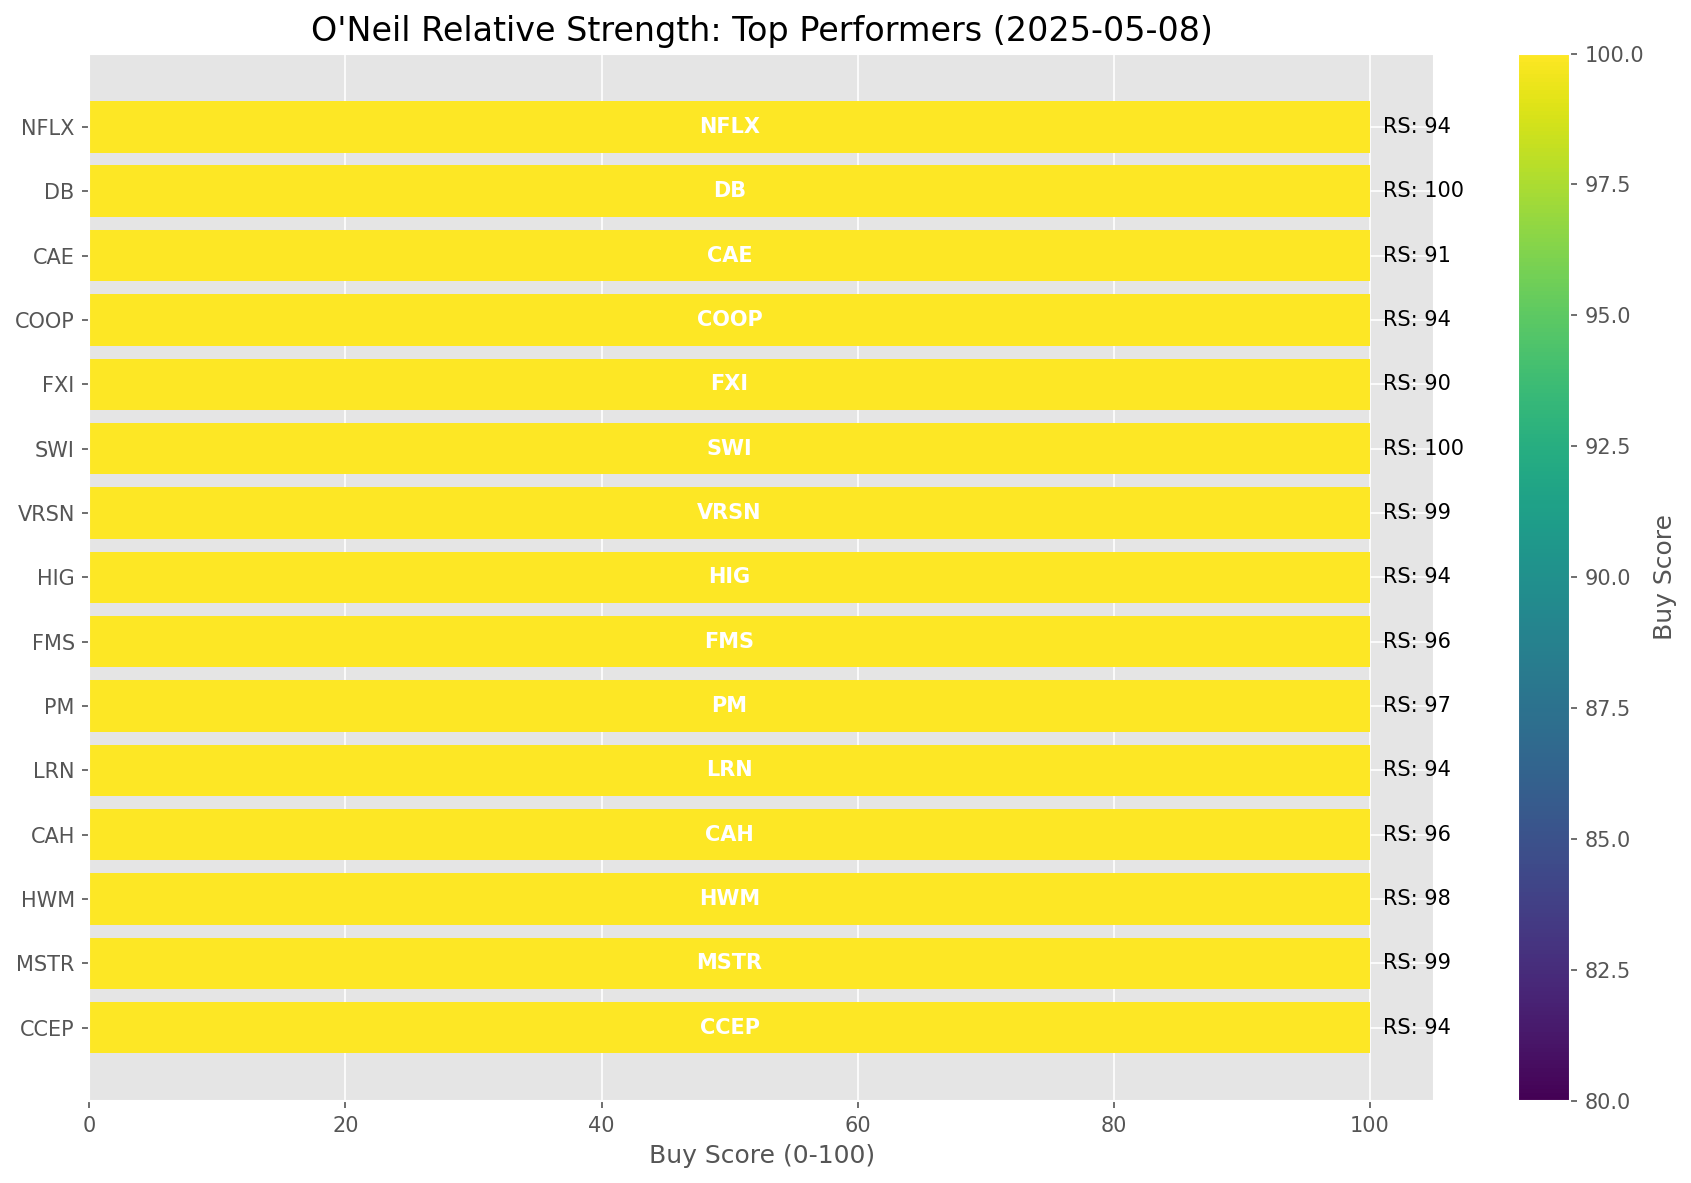
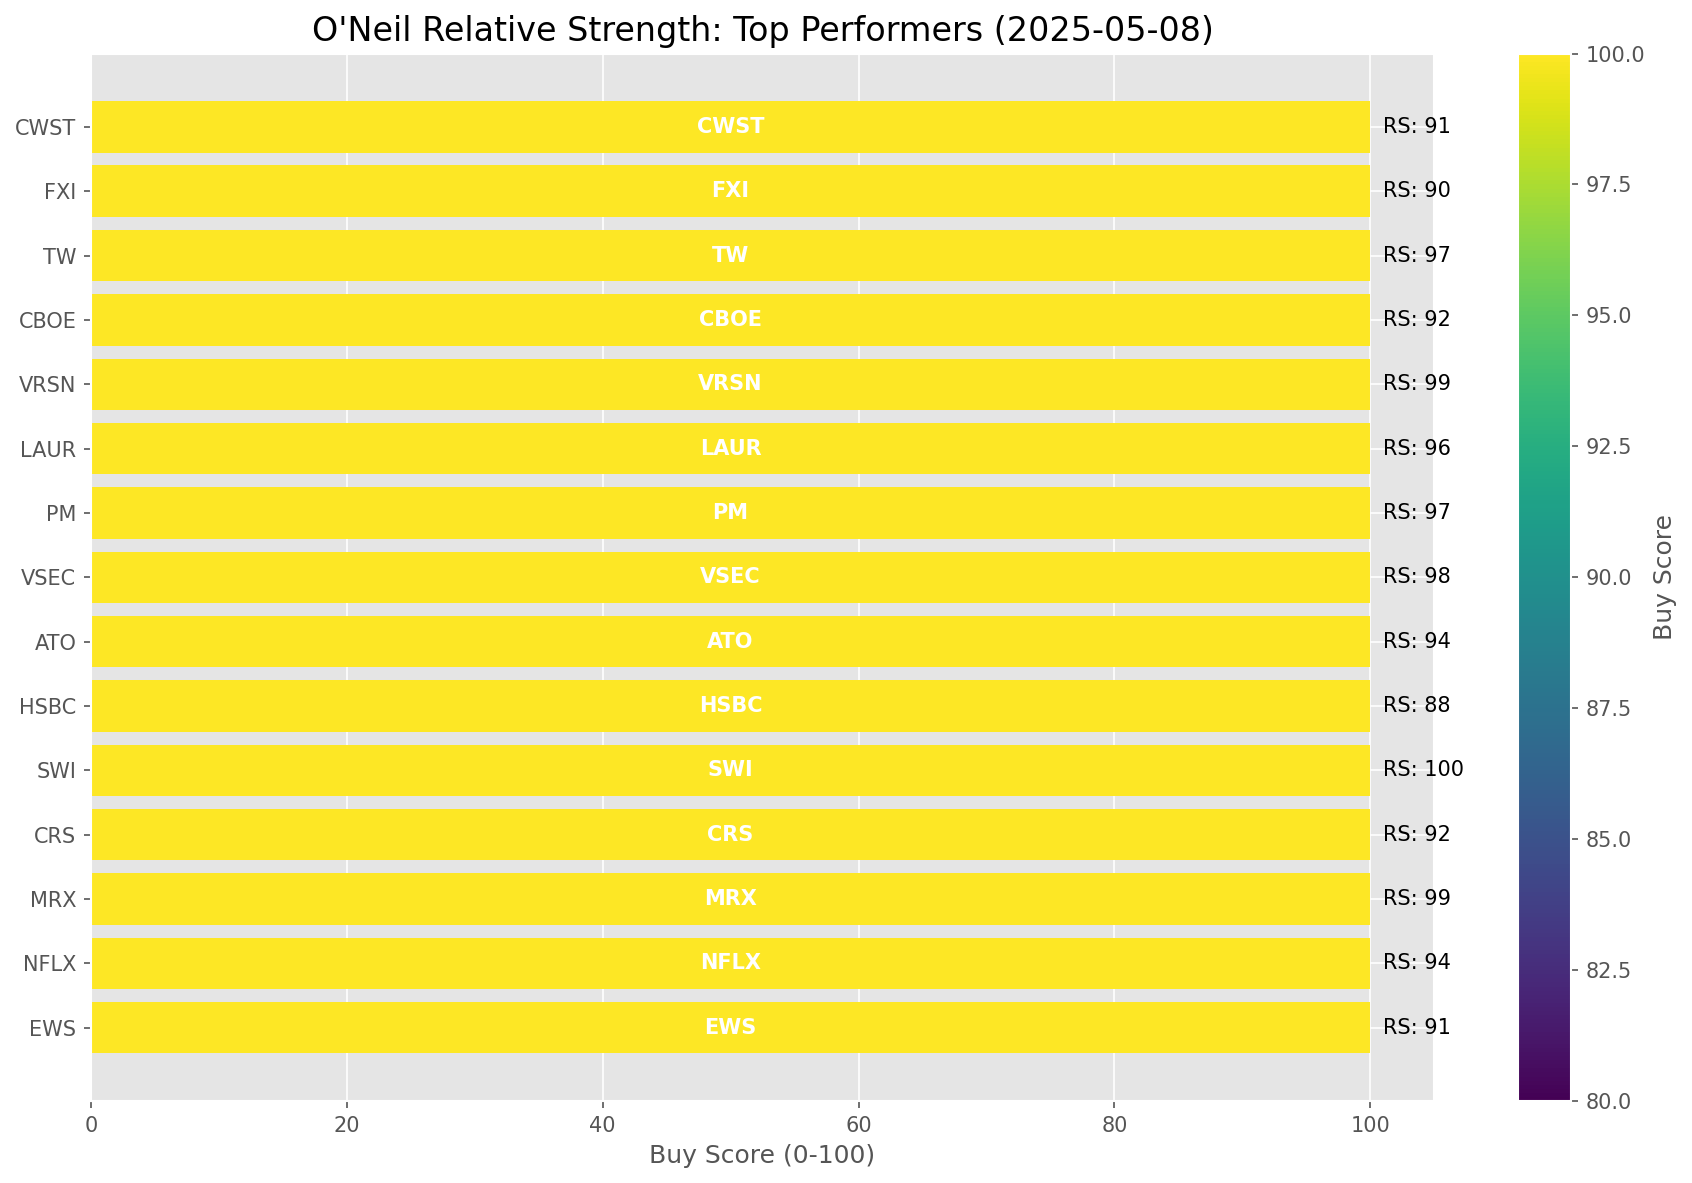
Add market report for 2025-05-08

diff --git a/oneil_relative_strength_report_2025-05-08.md b/oneil_relative_strength_report_2025-05-08.md
@@ -49,8 +49,8 @@ Based on William O'Neil's Relative Strength Methodology
 
 | ETF | Strength | RS Rating | Performance | Above Key MAs | Trend | Sector |
 |-----|----------|-----------|-------------|--------------|-------|--------|
-| [XLP](https://www.tradingview.com/chart/?symbol=XLP) | 89.0 | 78.0 | 2.40% | 10d ✓, 50d ✓, 200d ✓ | ↗ | Consumer Staples |
 | [XLU](https://www.tradingview.com/chart/?symbol=XLU) | 89.0 | 78.0 | 2.30% | 10d ✓, 50d ✓, 200d ✓ | ↗ | Utilities |
+| [XLP](https://www.tradingview.com/chart/?symbol=XLP) | 89.0 | 78.0 | 2.40% | 10d ✓, 50d ✓, 200d ✓ | ↗ | Consumer Staples |
 | [GLD](https://www.tradingview.com/chart/?symbol=GLD) | 88.1 | 96.0 | 15.64% | 10d ✗, 50d ✓, 200d ✓ | ↗ | Gold |
 | [CIBR](https://www.tradingview.com/chart/?symbol=CIBR) | 84.0 | 68.0 | -0.57% | 10d ✓, 50d ✓, 200d ✓ | ↗ | Cybersecurity |
 | [XLI](https://www.tradingview.com/chart/?symbol=XLI) | 83.0 | 66.0 | -1.26% | 10d ✓, 50d ✓, 200d ✓ | ↗ | Industrial |
@@ -98,83 +98,77 @@ This table shows the relative strength metrics for different market sectors base
 
 ### **Current Sector Leadership**
 
-The current market leadership is coming from the following sectors: **Consumer Staples, Utilities, Gold**.
+The current market leadership is coming from the following sectors: **Utilities, Consumer Staples, Gold**.
 
-The **Consumer Staples** sector (represented by **XLP**) is showing particularly strong relative strength with an RS rating of 78.0 and performance of 2.40% vs. the S&P 500. This sector is trading above its 10-day, 50-day, 200-day moving average(s). Investors should consider focusing on high RS stocks within these leading sectors for potential outperformance.
+The **Utilities** sector (represented by **XLU**) is showing particularly strong relative strength with an RS rating of 78.0 and performance of 2.30% vs. the S&P 500. This sector is trading above its 10-day, 50-day, 200-day moving average(s). Investors should consider focusing on high RS stocks within these leading sectors for potential outperformance.
 
 ---
 
 ## **Buy Recommendations**
 
-The following 93 stocks show exceptional relative strength:
+The following 87 stocks show exceptional relative strength:
 
 | RS Rating | Buy Score | Current Price | Chart | Name | Ticker |
 |-----------|-----------|---------------|-------|------|--------|
-| 100 | 100 | $26.71 | [Chart](https://www.tradingview.com/chart/?symbol=DB) | Deutsche Bank Aktiengesellschaft | DB |
 | 100 | 100 | $74.98 | [Chart](https://www.tradingview.com/chart/?symbol=SEZL) | Sezzle Inc. Common Stock | SEZL |
-| 100 | 100 | $160.01 | [Chart](https://www.tradingview.com/chart/?symbol=PLMR) | Palomar Holdings, Inc. Common stock | PLMR |
 | 100 | 100 | $19.30 | [Chart](https://www.tradingview.com/chart/?symbol=SPNT) | SiriusPoint Ltd. | SPNT |
 | 100 | 100 | $152.73 | [Chart](https://www.tradingview.com/chart/?symbol=DAVE) | Dave Inc. Class A Common Stock | DAVE |
+| 100 | 100 | $26.71 | [Chart](https://www.tradingview.com/chart/?symbol=DB) | Deutsche Bank Aktiengesellschaft | DB |
+| 100 | 100 | $160.01 | [Chart](https://www.tradingview.com/chart/?symbol=PLMR) | Palomar Holdings, Inc. Common stock | PLMR |
 | 100 | 100 | $24.45 | [Chart](https://www.tradingview.com/chart/?symbol=GRND) | Grindr Inc. | GRND |
-| 99 | 100 | $414.38 | [Chart](https://www.tradingview.com/chart/?symbol=MSTR) | MicroStrategy Inc | MSTR |
+| 99 | 100 | $47.10 | [Chart](https://www.tradingview.com/chart/?symbol=MRX) | Marex Group plc Ordinary Shares | MRX |
 | 99 | 100 | $285.21 | [Chart](https://www.tradingview.com/chart/?symbol=VRSN) | VeriSign Inc | VRSN |
+| 99 | 100 | $414.38 | [Chart](https://www.tradingview.com/chart/?symbol=MSTR) | MicroStrategy Inc | MSTR |
 | 99 | 100 | $503.57 | [Chart](https://www.tradingview.com/chart/?symbol=DUOL) | Duolingo, Inc. Class A Common Stock | DUOL |
 | 99 | 100 | $70.49 | [Chart](https://www.tradingview.com/chart/?symbol=ULS) | UL Solutions Inc. | ULS |
-| 99 | 100 | $47.10 | [Chart](https://www.tradingview.com/chart/?symbol=MRX) | Marex Group plc Ordinary Shares | MRX |
-| 98 | 100 | $157.50 | [Chart](https://www.tradingview.com/chart/?symbol=HWM) | Howmet Aerospace Inc. | HWM |
-| 98 | 100 | $59.61 | [Chart](https://www.tradingview.com/chart/?symbol=SKWD) | Skyward Specialty Insurance Group, Inc. Common Stock | SKWD |
 | 98 | 100 | $131.42 | [Chart](https://www.tradingview.com/chart/?symbol=VSEC) | VSE Corp | VSEC |
-| 98 | 100 | $249.35 | [Chart](https://www.tradingview.com/chart/?symbol=PAYC) | PAYCOM SOFTWARE, INC. | PAYC |
+| 98 | 100 | $59.61 | [Chart](https://www.tradingview.com/chart/?symbol=SKWD) | Skyward Specialty Insurance Group, Inc. Common Stock | SKWD |
 | 98 | 100 | $41.80 | [Chart](https://www.tradingview.com/chart/?symbol=DRS) | Leonardo DRS, Inc. Common Stock | DRS |
+| 98 | 100 | $157.50 | [Chart](https://www.tradingview.com/chart/?symbol=HWM) | Howmet Aerospace Inc. | HWM |
+| 98 | 100 | $249.35 | [Chart](https://www.tradingview.com/chart/?symbol=PAYC) | PAYCOM SOFTWARE, INC. | PAYC |
 | 97 | 100 | $172.00 | [Chart](https://www.tradingview.com/chart/?symbol=PM) | Philip Morris International Inc. | PM |
 | 97 | 100 | $145.82 | [Chart](https://www.tradingview.com/chart/?symbol=SE) | Sea Limited American Depositary Shares, each representing one Class A Ordinary Share | SE |
-| 97 | 100 | $145.25 | [Chart](https://www.tradingview.com/chart/?symbol=TW) | Tradeweb Markets Inc. Class A Common Stock | TW |
 | 97 | 100 | $72.72 | [Chart](https://www.tradingview.com/chart/?symbol=WRB) | W.R. Berkley Corporation | WRB |
 | 97 | 100 | $30.49 | [Chart](https://www.tradingview.com/chart/?symbol=EUFN) | iShares MSCI Europe Financials ETF | EUFN |
-| 97 | 100 | $23.71 | [Chart](https://www.tradingview.com/chart/?symbol=OR) | Osisko Gold Royalties Ltd | OR |
-| 96 | 100 | $147.27 | [Chart](https://www.tradingview.com/chart/?symbol=CAH) | Cardinal Health, Inc. | CAH |
-| 96 | 100 | $28.07 | [Chart](https://www.tradingview.com/chart/?symbol=FMS) | Fresenius Medical Care AG | FMS |
-| 96 | 100 | $22.74 | [Chart](https://www.tradingview.com/chart/?symbol=LAUR) | Laureate Education, Inc. Common Stock | LAUR |
 | 96 | 100 | $281.99 | [Chart](https://www.tradingview.com/chart/?symbol=CME) | CME Group Inc. | CME |
+| 96 | 100 | $28.07 | [Chart](https://www.tradingview.com/chart/?symbol=FMS) | Fresenius Medical Care AG | FMS |
+| 96 | 100 | $147.27 | [Chart](https://www.tradingview.com/chart/?symbol=CAH) | Cardinal Health, Inc. | CAH |
 | 95 | 100 | $40.46 | [Chart](https://www.tradingview.com/chart/?symbol=EWG) | iShares MSCI Germany ETF | EWG |
 | 95 | 100 | $36.96 | [Chart](https://www.tradingview.com/chart/?symbol=PAY) | Paymentus Holdings, Inc. | PAY |
-| 95 | 100 | $104.81 | [Chart](https://www.tradingview.com/chart/?symbol=RBA) | RB Global, Inc. | RBA |
 | 95 | 100 | $60.40 | [Chart](https://www.tradingview.com/chart/?symbol=MO) | Altria Group, Inc. | MO |
-| 94 | 100 | $89.78 | [Chart](https://www.tradingview.com/chart/?symbol=CCEP) | Coca-Cola Europacific Partners plc Ordinary Shares | CCEP |
-| 94 | 100 | $156.68 | [Chart](https://www.tradingview.com/chart/?symbol=LRN) | Stride, Inc. | LRN |
-| 94 | 100 | $128.21 | [Chart](https://www.tradingview.com/chart/?symbol=HIG) | The Hartford Insurance Group, Inc. | HIG |
-| 94 | 100 | $118.99 | [Chart](https://www.tradingview.com/chart/?symbol=COOP) | Mr. Cooper Group Inc. Common Stock | COOP |
+| 95 | 100 | $104.81 | [Chart](https://www.tradingview.com/chart/?symbol=RBA) | RB Global, Inc. | RBA |
 | 94 | 100 | $1144.43 | [Chart](https://www.tradingview.com/chart/?symbol=NFLX) | NetFlix Inc | NFLX |
 | 94 | 100 | $161.25 | [Chart](https://www.tradingview.com/chart/?symbol=ATO) | Atmos Energy Corporation | ATO |
-| 94 | 100 | $40.90 | [Chart](https://www.tradingview.com/chart/?symbol=AB) | AllianceBernstein Holding, L.P. | AB |
 | 94 | 100 | $79.71 | [Chart](https://www.tradingview.com/chart/?symbol=OGS) | ONE GAS, INC. | OGS |
-| 94 | 100 | $81.43 | [Chart](https://www.tradingview.com/chart/?symbol=NFG) | National Fuel Gas Co. | NFG |
+| 94 | 100 | $40.90 | [Chart](https://www.tradingview.com/chart/?symbol=AB) | AllianceBernstein Holding, L.P. | AB |
+| 94 | 100 | $89.78 | [Chart](https://www.tradingview.com/chart/?symbol=CCEP) | Coca-Cola Europacific Partners plc Ordinary Shares | CCEP |
+| 94 | 100 | $118.99 | [Chart](https://www.tradingview.com/chart/?symbol=COOP) | Mr. Cooper Group Inc. Common Stock | COOP |
 | 94 | 100 | $249.33 | [Chart](https://www.tradingview.com/chart/?symbol=RSG) | Republic Services Inc. | RSG |
+| 94 | 100 | $81.43 | [Chart](https://www.tradingview.com/chart/?symbol=NFG) | National Fuel Gas Co. | NFG |
+| 94 | 100 | $128.21 | [Chart](https://www.tradingview.com/chart/?symbol=HIG) | The Hartford Insurance Group, Inc. | HIG |
 | 93 | 100 | $62.41 | [Chart](https://www.tradingview.com/chart/?symbol=CHEF) | The Chef's Warehouse Inc | CHEF |
 | 93 | 100 | $17.81 | [Chart](https://www.tradingview.com/chart/?symbol=AM) | Antero Midstream Corporation Common Stock | AM |
 | 93 | 100 | $32.77 | [Chart](https://www.tradingview.com/chart/?symbol=UTI) | Universal Technical Institute, Inc. | UTI |
 | 93 | 100 | $49.49 | [Chart](https://www.tradingview.com/chart/?symbol=ERJ) | Embraer S.A. | ERJ |
-| 92 | 100 | $228.14 | [Chart](https://www.tradingview.com/chart/?symbol=CBOE) | Cboe Global Markets, Inc. | CBOE |
 | 92 | 100 | $209.18 | [Chart](https://www.tradingview.com/chart/?symbol=CRS) | Carpenter Technology Corp | CRS |
-| 92 | 100 | $50.42 | [Chart](https://www.tradingview.com/chart/?symbol=GFL) | GFL Environmental Inc. Subordinate Voting Shares | GFL |
+| 92 | 100 | $228.14 | [Chart](https://www.tradingview.com/chart/?symbol=CBOE) | Cboe Global Markets, Inc. | CBOE |
 | 92 | 100 | $32.21 | [Chart](https://www.tradingview.com/chart/?symbol=AHR) | American Healthcare REIT, Inc. | AHR |
-| 91 | 100 | $25.93 | [Chart](https://www.tradingview.com/chart/?symbol=CAE) | CAE INC | CAE |
 | 91 | 100 | $24.74 | [Chart](https://www.tradingview.com/chart/?symbol=EWS) | iShares MSCI Singapore ETF | EWS |
-| 91 | 100 | $118.47 | [Chart](https://www.tradingview.com/chart/?symbol=CWST) | Casella Waste Systems Inc | CWST |
-| 91 | 100 | $270.82 | [Chart](https://www.tradingview.com/chart/?symbol=TRV) | The Travelers Companies, Inc. | TRV |
 | 91 | 100 | $203.92 | [Chart](https://www.tradingview.com/chart/?symbol=BAP) | Credicorp LTD | BAP |
+| 91 | 100 | $25.93 | [Chart](https://www.tradingview.com/chart/?symbol=CAE) | CAE INC | CAE |
+| 91 | 100 | $270.82 | [Chart](https://www.tradingview.com/chart/?symbol=TRV) | The Travelers Companies, Inc. | TRV |
 | 90 | 100 | $35.00 | [Chart](https://www.tradingview.com/chart/?symbol=FXI) | iShares China Large-Cap ETF | FXI |
-| 90 | 100 | $285.53 | [Chart](https://www.tradingview.com/chart/?symbol=CVNA) | Carvana Co. | CVNA |
-| 90 | 100 | $237.31 | [Chart](https://www.tradingview.com/chart/?symbol=LNG) | Cheniere Energy Inc | LNG |
 | 90 | 100 | $51.67 | [Chart](https://www.tradingview.com/chart/?symbol=EPR) | EPR Properties | EPR |
+| 90 | 100 | $237.31 | [Chart](https://www.tradingview.com/chart/?symbol=LNG) | Cheniere Energy Inc | LNG |
+| 90 | 100 | $285.53 | [Chart](https://www.tradingview.com/chart/?symbol=CVNA) | Carvana Co. | CVNA |
 | 89 | 100 | $43.57 | [Chart](https://www.tradingview.com/chart/?symbol=NWN) | Northwest Natural Holding Company | NWN |
-| 88 | 100 | $16.35 | [Chart](https://www.tradingview.com/chart/?symbol=BCS) | Barclays PLC | BCS |
-| 88 | 100 | $119.15 | [Chart](https://www.tradingview.com/chart/?symbol=PLTR) | Palantir Technologies Inc. Class A Common Stock | PLTR |
 | 88 | 100 | $56.69 | [Chart](https://www.tradingview.com/chart/?symbol=HSBC) | HSBC Holdings PLC | HSBC |
 | 88 | 100 | $100.75 | [Chart](https://www.tradingview.com/chart/?symbol=AXS) | Axis Capital Holders Limited | AXS |
-| 89 | 99 | $5165.27 | [Chart](https://www.tradingview.com/chart/?symbol=BKNG) | Booking Holdings Inc. Common Stock | BKNG |
+| 88 | 100 | $16.35 | [Chart](https://www.tradingview.com/chart/?symbol=BCS) | Barclays PLC | BCS |
+| 88 | 100 | $119.15 | [Chart](https://www.tradingview.com/chart/?symbol=PLTR) | Palantir Technologies Inc. Class A Common Stock | PLTR |
 | 89 | 99 | $42.67 | [Chart](https://www.tradingview.com/chart/?symbol=FHI) | Federated Hermes, Inc. | FHI |
 | 89 | 99 | $26.90 | [Chart](https://www.tradingview.com/chart/?symbol=IIIV) | i3 Verticals, Inc. Class A Common Stock | IIIV |
+| 89 | 99 | $5165.27 | [Chart](https://www.tradingview.com/chart/?symbol=BKNG) | Booking Holdings Inc. Common Stock | BKNG |
 | 87 | 99 | $31.96 | [Chart](https://www.tradingview.com/chart/?symbol=SLM) | SLM Corporation | SLM |
 | 86 | 99 | $115.88 | [Chart](https://www.tradingview.com/chart/?symbol=ATGE) | Adtalem Global Education Inc. Common Shares | ATGE |
 | 88 | 98 | $66.86 | [Chart](https://www.tradingview.com/chart/?symbol=CTVA) | Corteva, Inc. Common Stock | CTVA |
@@ -196,12 +190,12 @@ The following 93 stocks show exceptional relative strength:
 | 82 | 94 | $220.67 | [Chart](https://www.tradingview.com/chart/?symbol=CHKP) | Check Point Software Technologies Ltd | CHKP |
 | 82 | 93 | $307.85 | [Chart](https://www.tradingview.com/chart/?symbol=VRSK) | Verisk Analytics, Inc. Common Stock | VRSK |
 | 82 | 93 | $163.44 | [Chart](https://www.tradingview.com/chart/?symbol=ITA) | iShares U.S. Aerospace & Defense ETF | ITA |
-| 83 | 92 | $82.00 | [Chart](https://www.tradingview.com/chart/?symbol=TGLS) | Tecnoglass Inc. | TGLS |
 | 83 | 92 | $57.62 | [Chart](https://www.tradingview.com/chart/?symbol=IBIT) | iShares Bitcoin Trust ETF | IBIT |
+| 83 | 92 | $82.00 | [Chart](https://www.tradingview.com/chart/?symbol=TGLS) | Tecnoglass Inc. | TGLS |
 | 82 | 92 | $214.49 | [Chart](https://www.tradingview.com/chart/?symbol=GE) | GE Aerospace | GE |
-| 81 | 91 | $233.13 | [Chart](https://www.tradingview.com/chart/?symbol=WM) | Waste Management, Inc. | WM |
-| 81 | 91 | $31.15 | [Chart](https://www.tradingview.com/chart/?symbol=MFC) | Manulife Financial Corp. | MFC |
 | 81 | 91 | $12.61 | [Chart](https://www.tradingview.com/chart/?symbol=CNH) | CNH INDUSTRIAL N.V. | CNH |
+| 81 | 91 | $31.15 | [Chart](https://www.tradingview.com/chart/?symbol=MFC) | Manulife Financial Corp. | MFC |
+| 81 | 91 | $233.13 | [Chart](https://www.tradingview.com/chart/?symbol=WM) | Waste Management, Inc. | WM |
 | 80 | 91 | $41.11 | [Chart](https://www.tradingview.com/chart/?symbol=INOD) | Innodata Inc. | INOD |
 
 ---
@@ -216,22 +210,22 @@ The following 77 stocks show deteriorating relative strength:
 | 2 | 100 | $10.94 | [Chart](https://www.tradingview.com/chart/?symbol=NRIX) | Nurix Therapeutics, Inc. Common stock | NRIX |
 | 2 | 100 | $17.27 | [Chart](https://www.tradingview.com/chart/?symbol=FWRD) | Forward Air Corp | FWRD |
 | 2 | 100 | $21.60 | [Chart](https://www.tradingview.com/chart/?symbol=GCO) | Genesco Inc. | GCO |
-| 4 | 100 | $73.29 | [Chart](https://www.tradingview.com/chart/?symbol=ANF) | Abercrombie & Fitch Co. | ANF |
 | 4 | 100 | $12.76 | [Chart](https://www.tradingview.com/chart/?symbol=MNRO) | Monro, Inc. Common Stock | MNRO |
 | 4 | 100 | $27.22 | [Chart](https://www.tradingview.com/chart/?symbol=JACK) | Jack in the Box Inc. | JACK |
 | 4 | 100 | $10.04 | [Chart](https://www.tradingview.com/chart/?symbol=LSPD) | Lightspeed Commerce Inc. | LSPD |
-| 5 | 100 | $21.81 | [Chart](https://www.tradingview.com/chart/?symbol=SPT) | Sprout Social, Inc Class A Common Stock | SPT |
+| 4 | 100 | $73.29 | [Chart](https://www.tradingview.com/chart/?symbol=ANF) | Abercrombie & Fitch Co. | ANF |
 | 5 | 100 | $15.38 | [Chart](https://www.tradingview.com/chart/?symbol=PSFE) | Paysafe Limited | PSFE |
+| 5 | 100 | $21.81 | [Chart](https://www.tradingview.com/chart/?symbol=SPT) | Sprout Social, Inc Class A Common Stock | SPT |
 | 6 | 100 | $13.26 | [Chart](https://www.tradingview.com/chart/?symbol=DQ) | Daqo New Energy Corp. American Depositary Shares (each representing 5 Ordinary Shares) | DQ |
 | 7 | 100 | $11.38 | [Chart](https://www.tradingview.com/chart/?symbol=ARCT) | Arcturus Therapeutics Holdings Inc. Common Stock | ARCT |
+| 8 | 100 | $28.01 | [Chart](https://www.tradingview.com/chart/?symbol=SRDX) | Surmodics, Inc. Common Stock | SRDX |
+| 8 | 100 | $11.29 | [Chart](https://www.tradingview.com/chart/?symbol=JAMF) | Jamf Holding Corp. Common Stock | JAMF |
 | 8 | 100 | $32.48 | [Chart](https://www.tradingview.com/chart/?symbol=CYTK) | Cytokinetics Inc. | CYTK |
 | 8 | 100 | $15.86 | [Chart](https://www.tradingview.com/chart/?symbol=DXC) | DXC Technology Company | DXC |
-| 8 | 100 | $11.29 | [Chart](https://www.tradingview.com/chart/?symbol=JAMF) | Jamf Holding Corp. Common Stock | JAMF |
-| 8 | 100 | $28.01 | [Chart](https://www.tradingview.com/chart/?symbol=SRDX) | Surmodics, Inc. Common Stock | SRDX |
 | 9 | 100 | $96.93 | [Chart](https://www.tradingview.com/chart/?symbol=TGT) | Target Corporation | TGT |
 | 5 | 99 | $25.23 | [Chart](https://www.tradingview.com/chart/?symbol=RPD) | Rapid7, Inc. Common Stock | RPD |
-| 9 | 99 | $126.18 | [Chart](https://www.tradingview.com/chart/?symbol=TFX) | Teleflex Incorporated | TFX |
 | 9 | 99 | $11.35 | [Chart](https://www.tradingview.com/chart/?symbol=AEO) | American Eagle Outfitters | AEO |
+| 9 | 99 | $126.18 | [Chart](https://www.tradingview.com/chart/?symbol=TFX) | Teleflex Incorporated | TFX |
 | 8 | 97 | $10.31 | [Chart](https://www.tradingview.com/chart/?symbol=VREX) | Varex Imaging Corporation Common Stock | VREX |
 | 11 | 97 | $45.33 | [Chart](https://www.tradingview.com/chart/?symbol=RHI) | Robert Half Inc. | RHI |
 | 13 | 97 | $16.39 | [Chart](https://www.tradingview.com/chart/?symbol=SVOL) | Simplify Volatility Premium ETF | SVOL |
@@ -258,9 +252,9 @@ The following 77 stocks show deteriorating relative strength:
 | 29 | 89 | $14.46 | [Chart](https://www.tradingview.com/chart/?symbol=FXN) | First Trust Energy AlphaDEX Fund | FXN |
 | 15 | 88 | $31.47 | [Chart](https://www.tradingview.com/chart/?symbol=MBIN) | Merchants Bancorp Common Stock | MBIN |
 | 17 | 88 | $191.29 | [Chart](https://www.tradingview.com/chart/?symbol=DKS) | Dick's Sporting Goods, Inc. | DKS |
-| 20 | 88 | $34.71 | [Chart](https://www.tradingview.com/chart/?symbol=TECK) | Teck Resources Limited | TECK |
 | 20 | 88 | $47.87 | [Chart](https://www.tradingview.com/chart/?symbol=ERX) | Direxion Daily Energy Bull 2X Shares | ERX |
 | 15 | 87 | $92.90 | [Chart](https://www.tradingview.com/chart/?symbol=RVTY) | Revvity, Inc. | RVTY |
+| 20 | 87 | $34.71 | [Chart](https://www.tradingview.com/chart/?symbol=TECK) | Teck Resources Limited | TECK |
 | 20 | 87 | $160.12 | [Chart](https://www.tradingview.com/chart/?symbol=ODFL) | Old Dominion Freight Line | ODFL |
 | 16 | 86 | $17.49 | [Chart](https://www.tradingview.com/chart/?symbol=INFY) | Infosys Limited American Depositary Shares | INFY |
 | 21 | 86 | $15.67 | [Chart](https://www.tradingview.com/chart/?symbol=PD) | PagerDuty, Inc. | PD |
@@ -286,9 +280,9 @@ The following 77 stocks show deteriorating relative strength:
 | 34 | 70 | $28.96 | [Chart](https://www.tradingview.com/chart/?symbol=CSX) | CSX Corporation | CSX |
 | 38 | 70 | $34.52 | [Chart](https://www.tradingview.com/chart/?symbol=MGA) | Magna International | MGA |
 | 37 | 69 | $17.23 | [Chart](https://www.tradingview.com/chart/?symbol=MLNK) | MeridianLink, Inc. | MLNK |
-| 39 | 69 | $165.64 | [Chart](https://www.tradingview.com/chart/?symbol=TXN) | Texas Instruments Incorporated | TXN |
 | 34 | 68 | $74.70 | [Chart](https://www.tradingview.com/chart/?symbol=WFG) | West Fraser Timber Co. Ltd | WFG |
 | 39 | 68 | $194.10 | [Chart](https://www.tradingview.com/chart/?symbol=NDSN) | Nordson Corp | NDSN |
+| 39 | 68 | $165.64 | [Chart](https://www.tradingview.com/chart/?symbol=TXN) | Texas Instruments Incorporated | TXN |
 | 37 | 66 | $14.40 | [Chart](https://www.tradingview.com/chart/?symbol=EIC) | Eagle Point Income Company Inc. | EIC |
 
 ## **Methodology**
